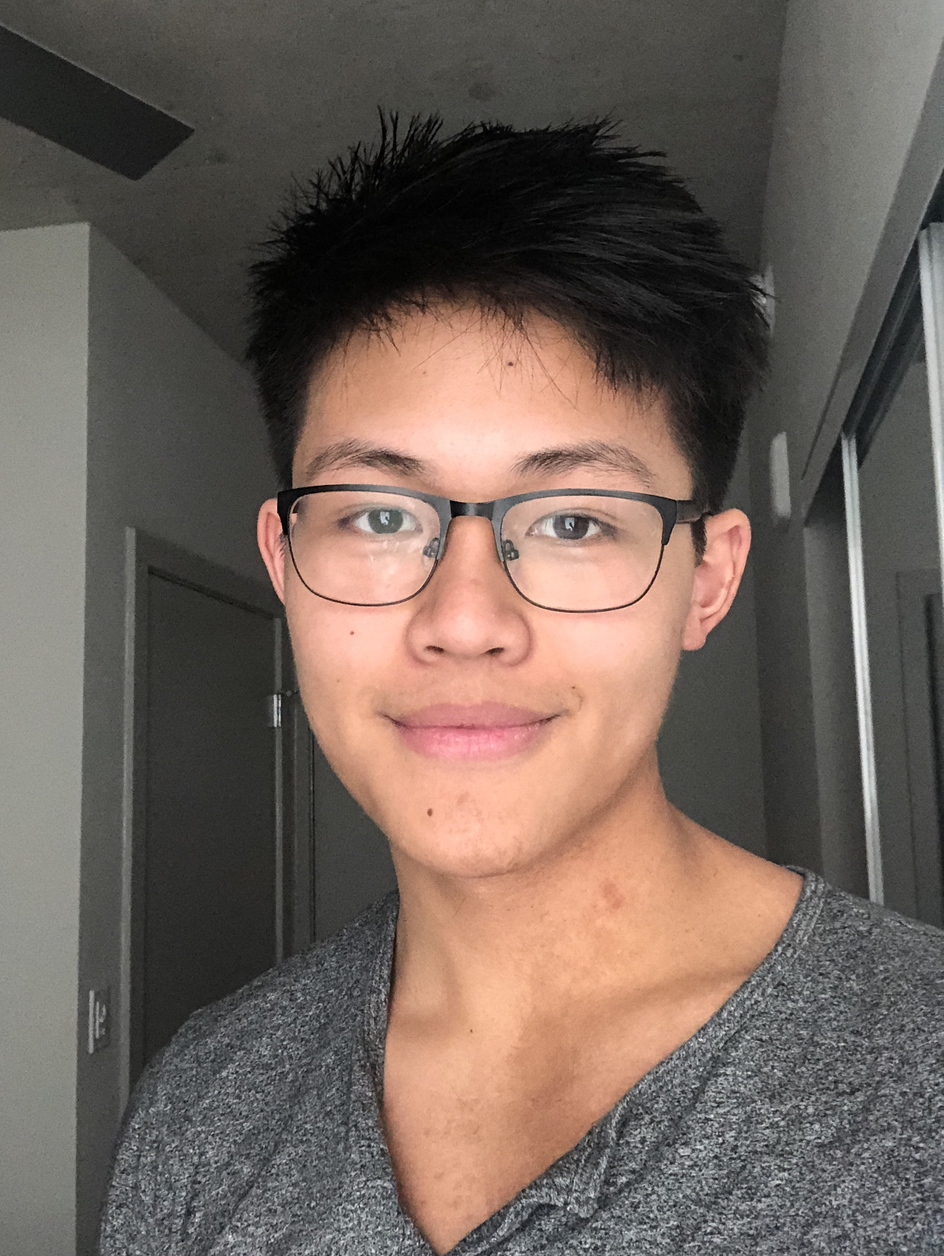
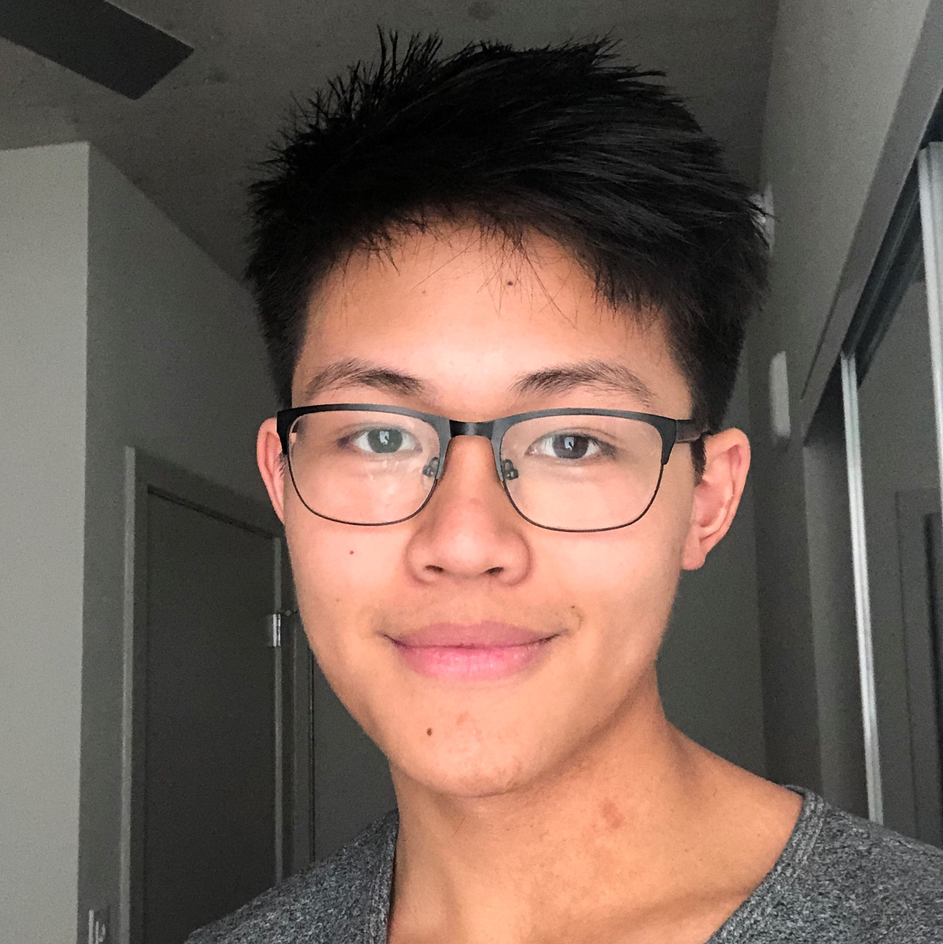
added profiles

diff --git a/src/pages/About.js b/src/pages/About.js
@@ -1,6 +1,10 @@
 import React, { Component } from "react";
 import Axios from "axios";
-import Danny from "../images/danny.jpg";
+import Danny from "../images/Danny.jpg";
+import Mitchell from "../images/Mitchell.jpg";
+import Max from "../images/Maximus.jpg";
+import Jesse from "../images/Jesse.jpg";
+import Adam from "../images/Adam.jpg";
 import MemberCard from "../components/MemberCard";
 const names = [
   "Mitchell Watkins",
@@ -17,9 +21,9 @@ export default class page1 extends Component {
     members: [
       { name: "Mitchell Watkins", gitlab: "mitchellwatkins125" },
       { name: "Dung Trinh (Danny)", gitlab: "Danny-Trinh" },
-      { name: "Adam Gluch", gitlab: "amgluch" },
       { name: "Jesse Huang", gitlab: "jessehuang" },
       { name: "Maximus Chu", gitlab: "maximuschu" },
+      { name: "Adam Gluch", gitlab: "amgluch" },
     ],
   };
   async componentDidMount() {
@@ -61,7 +65,17 @@ export default class page1 extends Component {
   render() {
     return (
       <React.Fragment>
-        <MemberCard image={Danny}></MemberCard>
+        <div className="container">
+          <div className="row">
+            <MemberCard image={Danny}></MemberCard>
+            <MemberCard image={Jesse}></MemberCard>
+            <MemberCard image={Max}></MemberCard>
+          </div>
+          <div className="row">
+            <MemberCard image={Mitchell}></MemberCard>
+            <MemberCard image={Adam}></MemberCard>
+          </div>
+        </div>
       </React.Fragment>
     );
   }

diff --git a/src/components/MemberCard.js b/src/components/MemberCard.js
@@ -1,5 +1,4 @@
 import React, { Component } from "react";
-import Danny from "../images/danny.jpg";
 export default class Navbar extends Component {
   render() {
     return (
@@ -7,6 +6,7 @@ export default class Navbar extends Component {
         <div className="card" style={{ width: "18rem" }}>
           <img
             className="card-img-top"
+            style={{ height: "18rem" }}
             src={this.props.image}
             alt="Card image cap"
           ></img>
